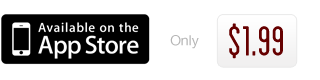
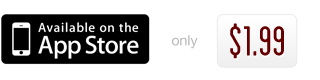
Sooo close

Changed region(s): [[0.7188, 0.275, 0.9062, 0.725], [0.5312, 0.425, 0.625, 0.6]]

diff --git a/index.html b/index.html
@@ -7,7 +7,7 @@
   <meta charset="utf-8">
   <meta http-equiv="X-UA-Compatible" content="IE=edge,chrome=1">
 
-  <title>Readtime - Getting things read.</title>
+  <title>Readtime - Get things read</title>
   <meta name="description" content="">
   <meta name="author" content="">
 
@@ -24,6 +24,7 @@
 
   <div class="intro section">
     <div class="inner">
+
       <div class="fake-phone">
         <div class="frame">&nbsp;</div>
         <div class="screen">
@@ -31,23 +32,26 @@
           <img src="images/phone-article.png" class="article offscreen-right" />
         </div>
       </div>
+
       <div class="deets">
         <h1 class="getting-read">Get things read</h1>
         <h1 class="good-time" style="display:none;">In good time</h1>
-        <div class="flibble">
+
+        <div class="links">
           <div>
-            <a href="#"><img src="images/readtime-icon.png" /></a>
+            <a href="http://itunes.apple.com/us/app/readtime/id549039409?mt=8"><img src="images/readtime-icon.png" /></a>
             <a href="http://www.readability.com" class="uses-readability hide-text">Uses Readability</a>
           </div>
-          <div>
-            <a href="#" class="get-it hide-text">Available on the App Store. Only $1.99</a>
-          </div>
+
+          <a href="http://itunes.apple.com/us/app/readtime/id549039409?mt=8" class="get-it hide-text">Available on the App Store. Only $1.99</a>
         </div>
       </div>
+
     </div>
   </div>
 
   <div class="how section">
+    <div class="inner-shadow">&nbsp;</div>
     <div class="inner">
       <h2>It works like this</h2>
       <ul class="screens">
@@ -79,11 +83,14 @@
 
   <div class="contact section">
     <div class="inner">
-      <div class="purchase">only $1.99</div>
+      <div class="purchase">
+        <a href="http://itunes.apple.com/us/app/readtime/id549039409?mt=8" class="get-it hide-text">only $1.99</a>
+        <a href="http://www.readability.com" class="requires-readability hide-text">Requires a Readability account</a>
+      </div>
       <ul>
-        <li class="email"><a href="#">Contact us</a></li>
+        <li class="email"><a href="mailto:hello@readtimeapp.com">Contact us</a></li>
         <li class="twitter"><a href="http://twitter.com/readtimeapp">@readtimeapp</a></li>
-        <li class="support"><a href="#">Support</a></li>
+        <li class="support"><a href="mailto:support@readtimeapp.com">Support</a></li>
     </div>
   </div>
 
@@ -113,12 +120,16 @@
       </ul>
       <div class="spiel">
         <p>
-          With our twitchy read-it-later fingers and busy buys schedules, Readtime was our experiment to see if we
+          With our twitchy read later fingers and busy busy schedules, Readtime was our experiment to see if we
           could become more efficient readers.
         </p>
 
         <p>
           It's worked for us. We hope it helps you get things read.
+        </p>
+        <div class="cogent">
+          <p>More at</p>
+          <img src="images/cogent-logo.png" />
         </p>
       </div>
     </div>

diff --git a/css/style.css b/css/style.css
@@ -55,6 +55,13 @@ ul {
   height: 5px;
 }
 
+.inner-shadow {
+  height: 7px;
+  background: 0 0 url("../images/inner-shadow.png") repeat-x;
+  margin: 0;
+  padding: 0;
+}
+
 h1, h2 {
   font-family: "LeagueGothicRegular";
   color: #111316;
@@ -113,13 +120,18 @@ h2 {
   left: 0;
 }
 .fake-phone .screen .offscreen-right {
-  left: 340px;
+  left: 350px;
 }
 .fake-phone .screen .offscreen-left {
-  left: -340px;
+  left: -350px;
 }
 .fake-phone .screen .onscreen {
   left: 0;
+}
+
+img.article {
+  -webkit-box-shadow: 0px 0px 8px 2px rgba(0, 0, 0, 0.4);
+  box-shadow: 0px 0px 8px 2px rgba(0, 0, 0, 0.4);
 }
 
 .deets {
@@ -138,11 +150,12 @@ h2 {
   display: block;
   float: left;
 }
-.deets .flibble {
+.deets .links {
   position: absolute;
   top: 550px;
 }
-.deets .get-it {
+.deets .get-it, .purchase .get-it {
+  display: block;
   background: 0 0 url("../images/top-get-it.png") no-repeat;
   width: 320px;
   height: 80px;
@@ -159,7 +172,6 @@ h2 {
 }
 .how h2 {
   text-shadow: -1px -1px 0 #fff;
-  filter: dropshadow(color=#fff, offx=-1, offy=-1);
 }
 .screens {
   overflow: auto;
@@ -198,21 +210,60 @@ h2 {
   width: 280px;
   padding-left: 45px;
   margin: 25px 0;
+  background-position: 0 0;
+  background-repeat: no-repeat;
 }
 
+.features .twitter {
+  background-image: url("../images/twitter-icon.png");
+}
+.features .email {
+  background-image: url("../images/email-icon.png");
+}
+.features .archive {
+  background-image: url("../images/archive-icon.png");
+}
+.features .readability {
+  background-image: url("../images/readability-icon.png");
+}
 
-.contact {}
 .contact ul, .purchase {
   width: 620px;
-  margin: 0 auto;
+  margin: 40px auto;
+  overflow: hidden;
 }
+.purchase a {
+  display: block;
+  float: left;
+}
+.purchase .requires-readability {
+  background: 0 0 url("../images/requires-readability.png") no-repeat;
+  width: 250px;
+  height: 80px;
+  margin-left: 20px;
+}
+
 .contact ul {
   text-align: left;
 }
 .contact li {
   float: left;
-  width: 161px;
-  padding-left: 45px;
+  width: 171px;
+  padding-left: 35px;
+  background-position: 0 0;
+  background-repeat: no-repeat;
+}
+.contact .support {
+  background-image: url("../images/contact-support-icon.png");
+  width: 103px;
+}
+.contact .twitter {
+  background-image: url("../images/contact-twitter-icon.png");
+  width: 205px;
+}
+.contact .email {
+  background-image: url("../images/contact-email-icon.png");
+  width: 205px;
 }
 .contact a, .contact a:active, .contact a:visited {
   color: #660000;
@@ -233,7 +284,7 @@ h2 {
   font-size: 26px;
 }
 .mugshots {
-  overflow: auto;
+  overflow: hidden;
   font-size: 24px;
   margin: 60px 0;
 }
@@ -248,4 +299,9 @@ h2 {
 .spiel {
   width: 661px;
   margin: 40px auto;
+}
+.cogent {
+  font-size: 16px;
+  font-family: "Signal";
+  margin: 60px 0;
 }

diff --git a/js/script.js b/js/script.js
@@ -1,16 +1,16 @@
 $(document).ready(function() {
   var showArticle = function() {
-    $(".getting-read").fadeOut();
-    $(".good-time").fadeIn();
-    $(".fake-phone .article").addClass("onscreen", 300, function() {
+    $(".getting-read").fadeOut(350);
+    $(".good-time").fadeIn(350);
+    $(".fake-phone .article").addClass("onscreen", 400, function() {
       setTimeout(hideArticle, 3000);
     });
   }
 
   var hideArticle = function() {
-    $(".getting-read").fadeIn();
-    $(".good-time").fadeOut();
-    $(".fake-phone .article").switchClass("onscreen", "offscreen-left", 300, function() {
+    $(".getting-read").fadeIn(450);
+    $(".good-time").fadeOut(450);
+    $(".fake-phone .article").switchClass("onscreen", "offscreen-left", 400, function() {
       $(this).removeClass("offscreen-left")
       setTimeout(showArticle, 3000);
     });
